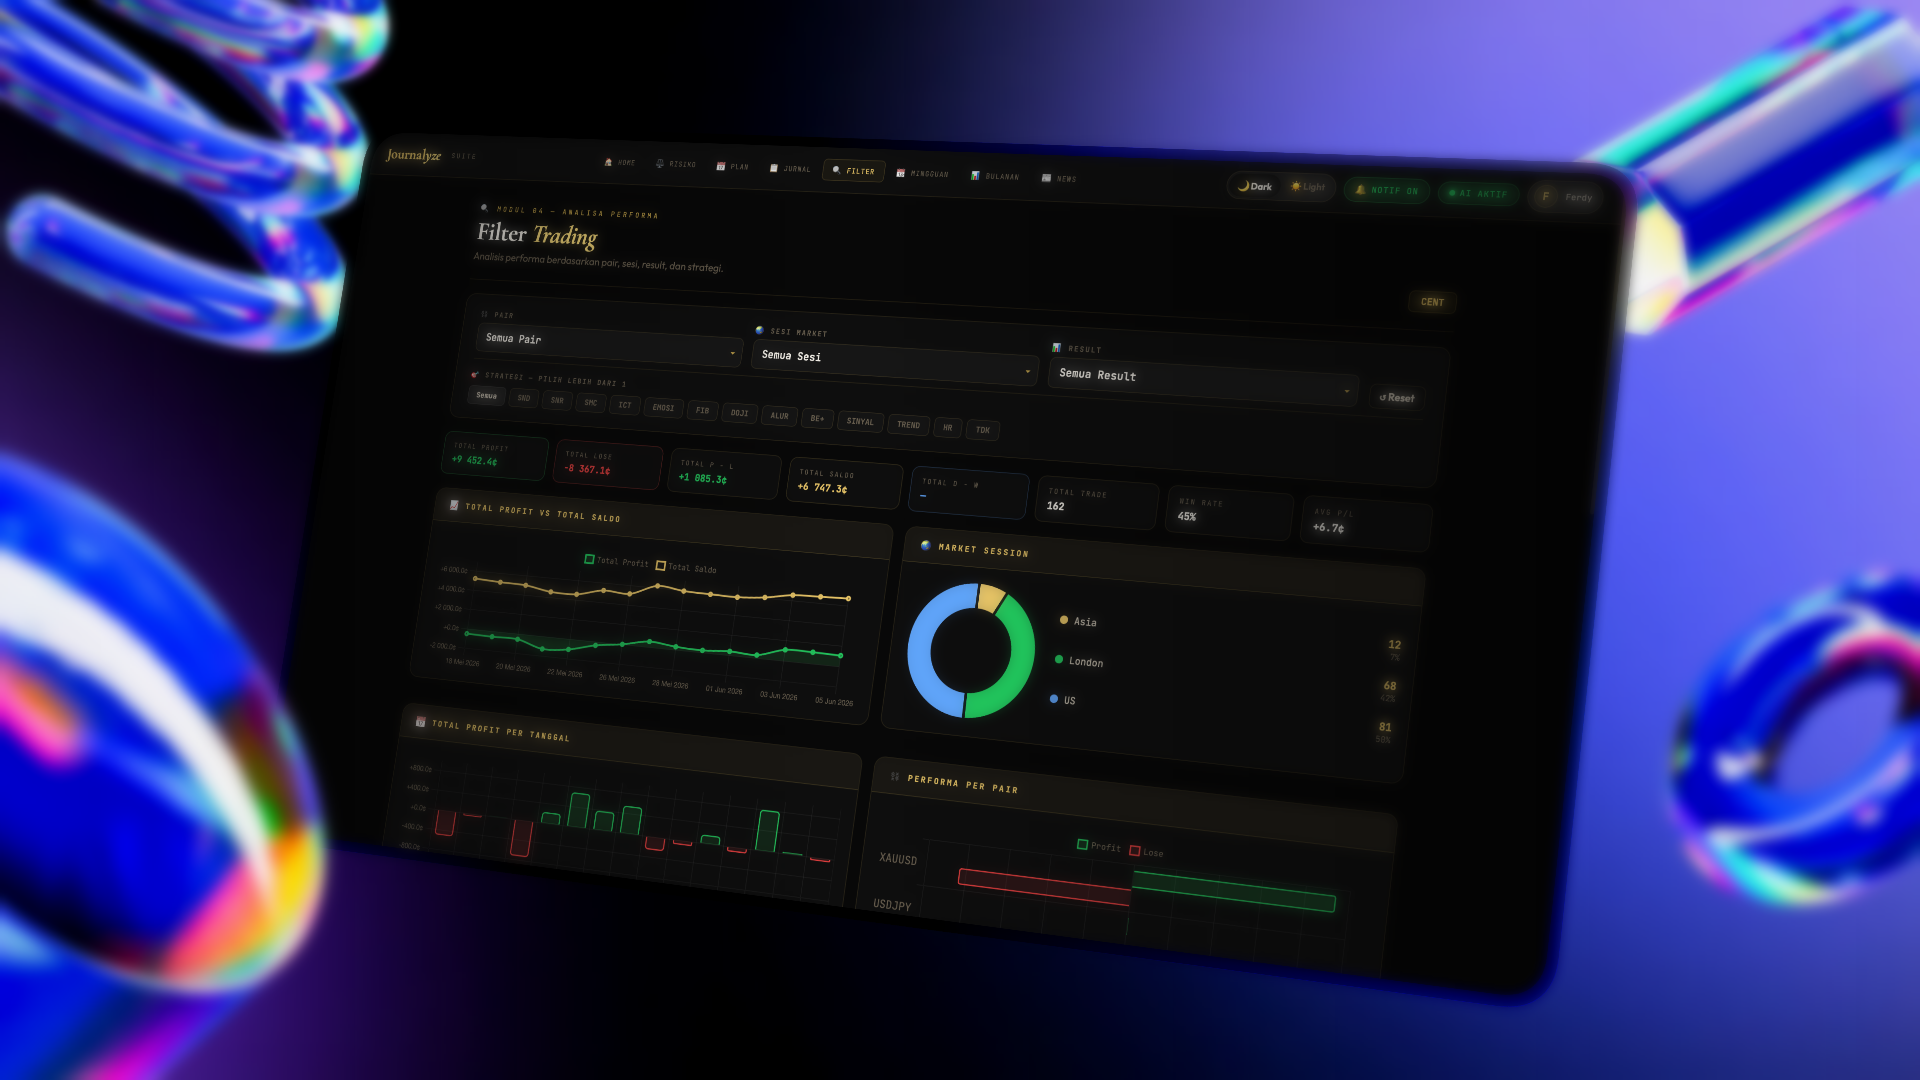
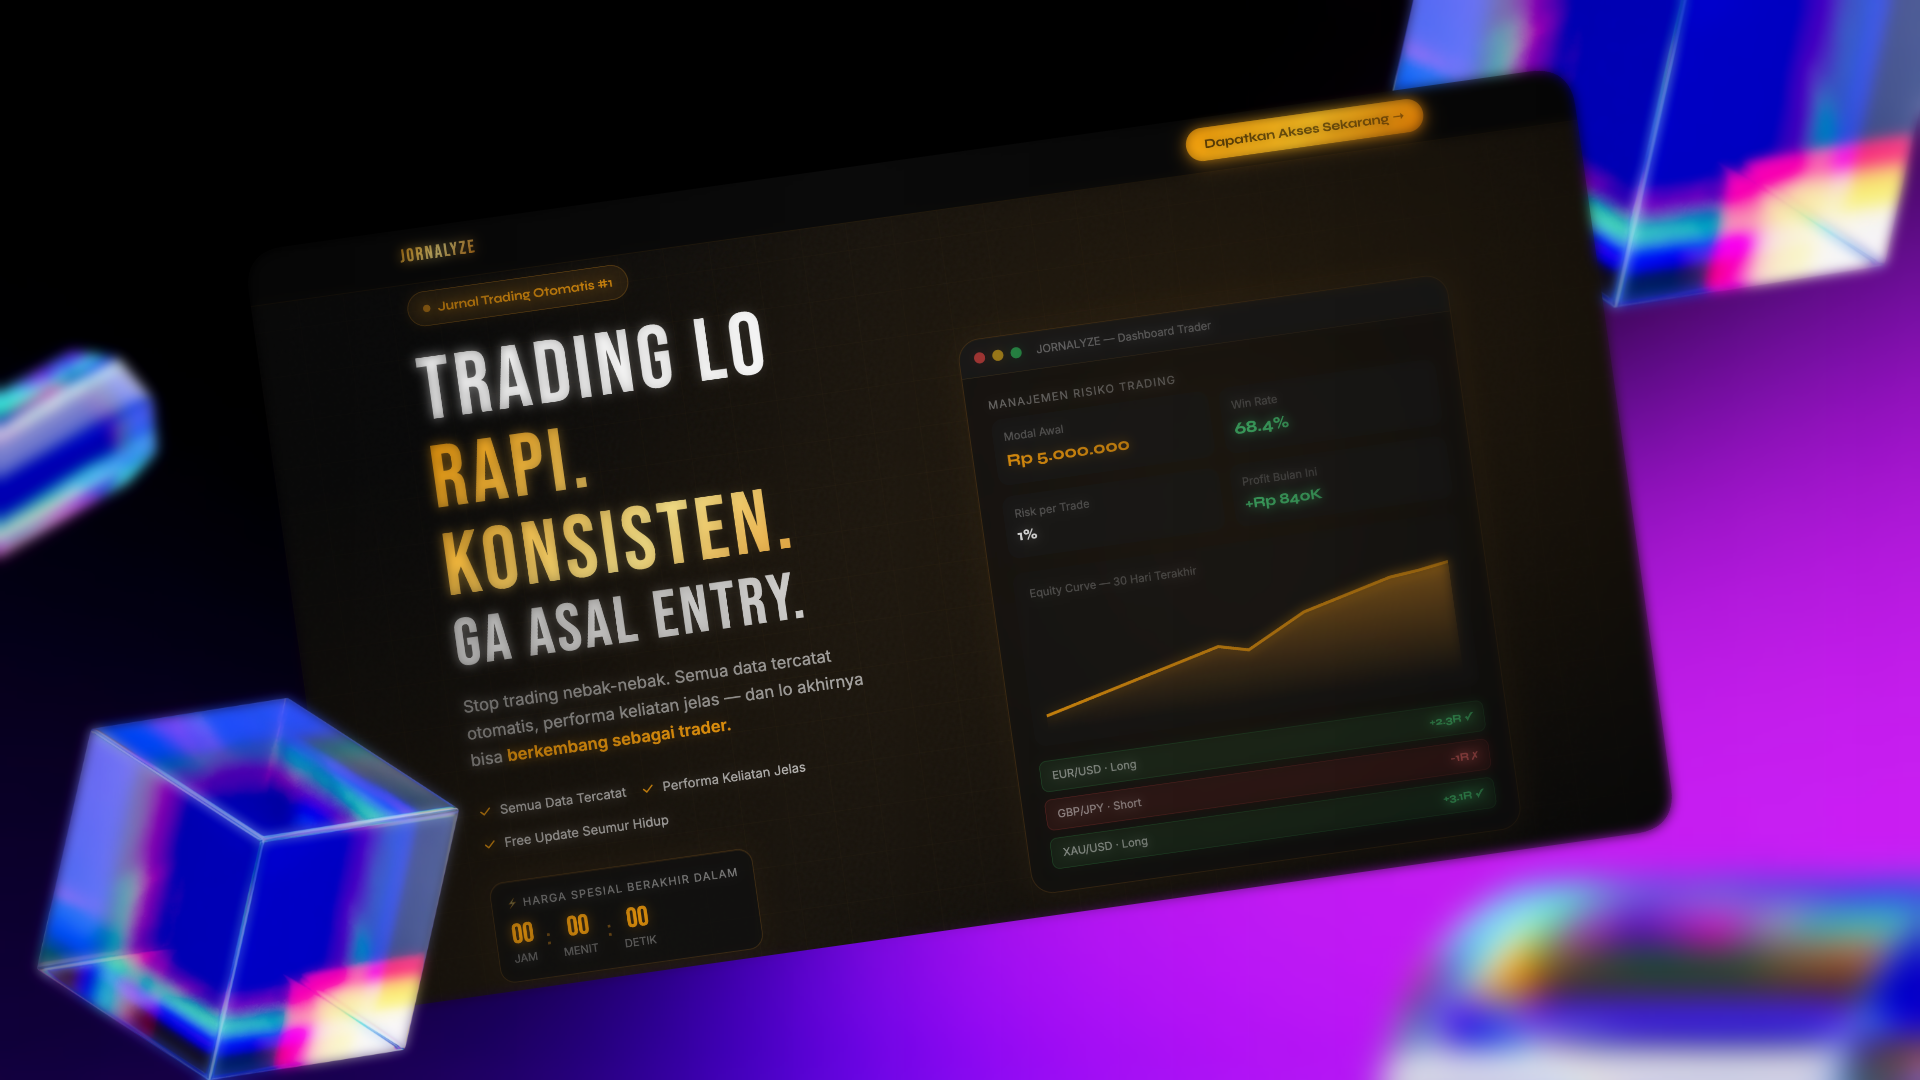
feat: berkah-qurban screenshots + content update

diff --git a/data/projects.js b/data/projects.js
@@ -62,15 +62,116 @@ Dibangun dengan strategi early bird pricing (22 slot sisa dari 50 slot), social 
     featured: true,
   },
   {
+    slug: 'berkah-qurban',
+    title: 'Berkah Qurban',
+    category: 'Web Business',
+    year: '2025',
+    coverColor: '#F59E0B',
+    role: 'Frontend Developer',
+    duration: '10 hari',
+    shortDesc: 'Website layanan qurban online — katalog paket hewan, alur pemesanan simpel, dan desain yang membangun kepercayaan calon pembeli.',
+    overview: `Berkah Qurban adalah website bisnis untuk layanan qurban online yang dirancang untuk menjangkau calon pembeli menjelang musim Idul Adha. Dibangun dengan pendekatan "amanah, berkualitas, terpercaya" — setiap elemen desain diarahkan untuk membangun kepercayaan dan mempermudah proses pemesanan.
+
+Website ini menampilkan katalog paket hewan qurban (Kambing Muda, Sapi Premium, Paket Keluarga) dengan harga transparan, galeri foto hewan asli dengan tab filter per kategori, alur pemesanan 4 langkah yang jelas, serta testimoni pelanggan. Dilengkapi FAQ interaktif, form kontak, dan tombol WhatsApp floating untuk kemudahan komunikasi langsung.`,
+    highlights: [
+      'Katalog 3 paket hewan qurban dengan harga transparan dan detail spesifikasi',
+      'Galeri foto asli dengan tab filter — Semua, Sapi, Kambing',
+      'Alur pemesanan 4 langkah yang jelas: Pilih → Bayar → Konfirmasi → Proses',
+      'FAQ accordion interaktif + form kontak + WhatsApp float button',
+      'Desain berbasis kepercayaan — statistik pengalaman, sertifikasi halal, dan testimoni pelanggan',
+    ],
+    tech: ['HTML/CSS', 'JavaScript'],
+    liveUrl: '#',
+    githubUrl: null,
+    cover: '/projects/berkah-qurban/cover.jpg',
+    mockup: '/projects/berkah-qurban/mockup.png',
+    screenshots: [
+      '/projects/berkah-qurban/home.png',
+      '/projects/berkah-qurban/whyme.png',
+      '/projects/berkah-qurban/paket.png',
+      '/projects/berkah-qurban/dokumentasi.png',
+      '/projects/berkah-qurban/pemesanan.png',
+      '/projects/berkah-qurban/testimoni.png',
+      '/projects/berkah-qurban/faq.png',
+    ],
+    featured: true,
+  },
+  {
     slug: 'journalyze-web',
     title: 'Journalyze Web',
-    category: 'Web App',
+    category: 'Landing Page',
     year: '2025',
     coverColor: '#3ECF8E',
+    role: 'Frontend Developer',
+    duration: '14 hari',
+    shortDesc: 'Landing page penjualan trading journal otomatis — interactive mockup 5 modul, 2 ebook bonus, countdown timer, dan copywriting untuk forex trader Indonesia.',
+    overview: `Journalyze Web adalah landing page penjualan produk digital JORNALYZE — trading journal otomatis untuk forex trader Indonesia. Dibangun dengan pendekatan dark premium menggunakan Tailwind CSS, font Bebas Neue & Syne, dan aksen gold.
+
+Halaman ini menampilkan interactive mockup langsung di halaman dengan 5 tab modul (Profil Risiko, Plan Harian, Jurnal Transaksi, Analisis Performa, Performa Bulanan), 2 ebook bonus berbentuk 3D book mockup (Candlestick & Support/Resistance), countdown timer urgensi, slider testimoni WA-style, pricing section dengan trust badge, dan FAQ accordion. Dilengkapi virtual purchase toast notification dan sticky CTA mobile.`,
+    highlights: [
+      'Interactive mockup 5 modul langsung di halaman — Risiko, Plan, Jurnal, Analisis, Bulanan',
+      '2 ebook bonus 3D mockup — Candlestick & Support/Resistance',
+      'Countdown timer + virtual purchase toast notification untuk urgensi konversi',
+      'Slider testimoni WA-style + FAQ accordion + sticky CTA mobile',
+    ],
+    tech: ['HTML/CSS', 'JavaScript', 'Tailwind CSS'],
+    liveUrl: '#',
+    githubUrl: null,
+    cover: '/projects/journalyze-web/cover.jpg',
+    mockup: '/projects/journalyze-web/mockup.png',
+    screenshots: [
+      '/projects/journalyze-web/home.png',
+      '/projects/journalyze-web/solusi.png',
+      '/projects/journalyze-web/tampilan.png',
+      '/projects/journalyze-web/bonus.png',
+      '/projects/journalyze-web/price.png',
+      '/projects/journalyze-web/cta.png',
+    ],
+    featured: true,
+  },
+  {
+    slug: 'archinova',
+    title: 'ArchiNova',
+    category: 'Company Profile',
+    year: '2025',
+    coverColor: '#D4AF37',
+    role: 'Frontend Developer',
+    duration: '10 hari',
+    shortDesc: 'Company profile studio arsitektur profesional — dark luxury design, showcase portofolio karya, dan 6 layanan desain dari hunian hingga pengawasan konstruksi.',
+    overview: `ArchiNova Architects adalah company profile untuk studio arsitektur profesional yang berfokus pada keseimbangan antara estetika, fungsi ruang, dan efisiensi konstruksi. Dibangun dengan estetika dark luxury — kombinasi warna gelap dan aksen gold yang menciptakan kesan premium dan terpercaya.
+
+Website ini menampilkan 6 layanan utama (Desain Hunian, Interior, Ruang Komersial, Visualisasi 3D, Renovasi, dan Pengawasan Konstruksi), galeri portofolio karya terpilih, statistik studio (120+ proyek, 12 tahun pengalaman, 18+ arsitek), section tentang studio dengan pendekatan "harmoni & presisi", serta testimoni klien. Dilengkapi animasi scroll reveal, navbar sticky, dan CTA konsultasi gratis.`,
+    highlights: [
+      'Dark luxury design — aksen gold #D4AF37 dengan tipografi Cormorant Garamond yang elegan',
+      '6 layanan desain: Hunian, Interior, Komersial, 3D, Renovasi, Pengawasan Konstruksi',
+      'Galeri portofolio karya terpilih dengan statistik studio (120+ proyek, 12 tahun)',
+      'Scroll reveal animations + sticky navbar + CTA konsultasi gratis',
+    ],
+    tech: ['HTML/CSS', 'JavaScript'],
+    liveUrl: '#',
+    githubUrl: null,
+    cover: '/projects/archinova/cover.jpg',
+    mockup: '/projects/archinova/mockup.png',
+    screenshots: [
+      '/projects/archinova/home.png',
+      '/projects/archinova/tentang.png',
+      '/projects/archinova/layanan.png',
+      '/projects/archinova/portofolio.png',
+      '/projects/archinova/alasan.png',
+      '/projects/archinova/testimoni.png',
+    ],
+    featured: true,
+  },
+  {
+    slug: 'journalyze-app',
+    title: 'Journalyze App',
+    category: 'Web App',
+    year: '2025',
+    coverColor: '#88CE02',
     role: 'Full-Stack Developer',
     duration: '3+ bulan',
     shortDesc: 'Trading journal suite lengkap untuk forex trader Indonesia — 7 modul, AI analysis, cloud sync Supabase, dan PWA push notification.',
-    overview: `Journalyze adalah trading journal suite berbasis web yang dibangun dari nol khusus untuk forex trader Indonesia. Terdiri dari 7 modul terintegrasi: Manajemen Risiko dengan kalkulator otomatis, Proyeksi Harian berbasis compounding, Jurnal Transaksi lengkap, Filter & Analisa Performa, Recap Mingguan & Bulanan, hingga Berita Forex real-time dengan Economic Calendar.
+    overview: `Journalyze App adalah trading journal suite berbasis web yang dibangun dari nol khusus untuk forex trader Indonesia. Terdiri dari 7 modul terintegrasi: Manajemen Risiko dengan kalkulator otomatis, Proyeksi Harian berbasis compounding, Jurnal Transaksi lengkap, Filter & Analisa Performa, Recap Mingguan & Bulanan, hingga Berita Forex real-time dengan Economic Calendar.
 
 Dibangun dengan vanilla JS + Supabase sebagai backend — mendukung cloud sync antar device, sistem autentikasi berbasis lisensi key, live kurs USD/IDR/EUR, AI OCR via Gemini API untuk input trade dari screenshot MT5, serta PWA push notification untuk forex news high-impact.`,
     highlights: [
@@ -79,45 +180,22 @@ Dibangun dengan vanilla JS + Supabase sebagai backend — mendukung cloud sync a
       'PWA push notification — alert otomatis saat ada berita forex high-impact',
       'Cloud sync via Supabase + sistem lisensi key untuk akses user',
       'Live kurs USD/IDR real-time dengan kalkulasi P&L multi-currency otomatis',
-      'Economic Calendar mingguan terintegrasi langsung di tab News',
     ],
     tech: ['HTML/CSS', 'JavaScript', 'Supabase', 'Chart.js', 'PWA', 'AI API'],
     liveUrl: 'https://journalyze.my.id/live.html',
     githubUrl: null,
-    cover: '/projects/journalyze-web/cover.jpg',
-    mockup: '/projects/journalyze-web/mockup.png',
+    cover: '/projects/journalyze-app/cover.jpg',
+    mockup: '/projects/journalyze-app/mockup.png',
     screenshots: [
-      '/projects/journalyze-web/home.png',
-      '/projects/journalyze-web/risiko.png',
-      '/projects/journalyze-web/plan.png',
-      '/projects/journalyze-web/jurnal.png',
-      '/projects/journalyze-web/filter.png',
-      '/projects/journalyze-web/mingguan.png',
-      '/projects/journalyze-web/bulanan.png',
-      '/projects/journalyze-web/news.png',
+      '/projects/journalyze-app/home.png',
+      '/projects/journalyze-app/risiko.png',
+      '/projects/journalyze-app/plan.png',
+      '/projects/journalyze-app/jurnal.png',
+      '/projects/journalyze-app/filter.png',
+      '/projects/journalyze-app/mingguan.png',
+      '/projects/journalyze-app/bulanan.png',
+      '/projects/journalyze-app/news.png',
     ],
-    featured: true,
-  },
-  {
-    slug: 'berkah-qurban',
-    title: 'Berkah Qurban',
-    category: 'Web Business',
-    year: '2025',
-    coverColor: '#F59E0B',
-    role: 'Frontend Developer',
-    duration: '10 hari',
-    shortDesc: 'Website bisnis qurban online — informasi layanan, paket hewan, dan sistem pemesanan yang mudah diakses.',
-    overview: `Berkah Qurban adalah website untuk bisnis layanan qurban online. Dirancang untuk memudahkan calon pembeli menemukan informasi paket, harga, dan melakukan pemesanan dengan mudah — terutama menjelang musim Idul Adha.`,
-    highlights: [
-      'Katalog paket hewan qurban dengan harga transparan',
-      'Alur pemesanan yang simpel — tanpa ribet',
-      'Desain yang membangun kepercayaan calon pembeli',
-    ],
-    tech: ['Next.js', 'Tailwind CSS'],
-    liveUrl: '#',
-    githubUrl: null,
-    cover: '/projects/berkah-qurban/cover.jpg',
-    screenshots: [],
     featured: true,
   },
   {
@@ -164,29 +242,6 @@ Dibangun dengan vanilla JS + Supabase sebagai backend — mendukung cloud sync a
     screenshots: [],
     featured: false,
   },
-  {
-    slug: 'journalyze-app',
-    title: 'Journalyze App',
-    category: 'Web App',
-    year: '2024',
-    coverColor: '#88CE02',
-    role: 'Full-Stack Developer',
-    duration: '1 bulan',
-    shortDesc: 'Versi awal Journalyze — trading journal berbasis Google Sheets dengan antarmuka web yang ringan dan mudah digunakan.',
-    overview: `Journalyze App adalah iterasi pertama dari produk Journalyze — sebuah trading journal yang memanfaatkan Google Sheets sebagai backend dengan antarmuka web yang bersih. Menjadi fondasi untuk evolusi Journalyze menjadi platform web app penuh.`,
-    highlights: [
-      'Google Sheets sebagai backend — zero server cost',
-      'Antarmuka web yang jauh lebih clean dari spreadsheet biasa',
-      'Fondasi konsep yang berkembang jadi Journalyze Web',
-    ],
-    tech: ['HTML/CSS', 'JavaScript', 'Google Sheets API'],
-    liveUrl: '#',
-    githubUrl: null,
-    cover: '/projects/journalyze-app/cover.jpg',
-    mockup: '/projects/journalyze-app/mockup.png',
-    screenshots: [],
-    featured: false,
-  },
 ]
 
 export const stats = [
@@ -197,16 +252,13 @@ export const stats = [
 ]
 
 export const skills = [
-  // Frontend
   { name: 'React.js', category: 'Frontend', icon: 'react' },
   { name: 'Next.js', category: 'Frontend', icon: 'nextjs' },
   { name: 'JavaScript', category: 'Frontend', icon: 'javascript' },
   { name: 'Tailwind CSS', category: 'Frontend', icon: 'tailwind' },
   { name: 'GSAP', category: 'Frontend', icon: 'gsap' },
-  // Backend
   { name: 'Supabase', category: 'Backend', icon: 'supabase' },
   { name: 'REST API', category: 'Backend', icon: 'api' },
-  // Tools
   { name: 'Git', category: 'Tools', icon: 'git' },
   { name: 'Vercel', category: 'Tools', icon: 'vercel' },
   { name: 'Figma', category: 'Tools', icon: 'figma' },